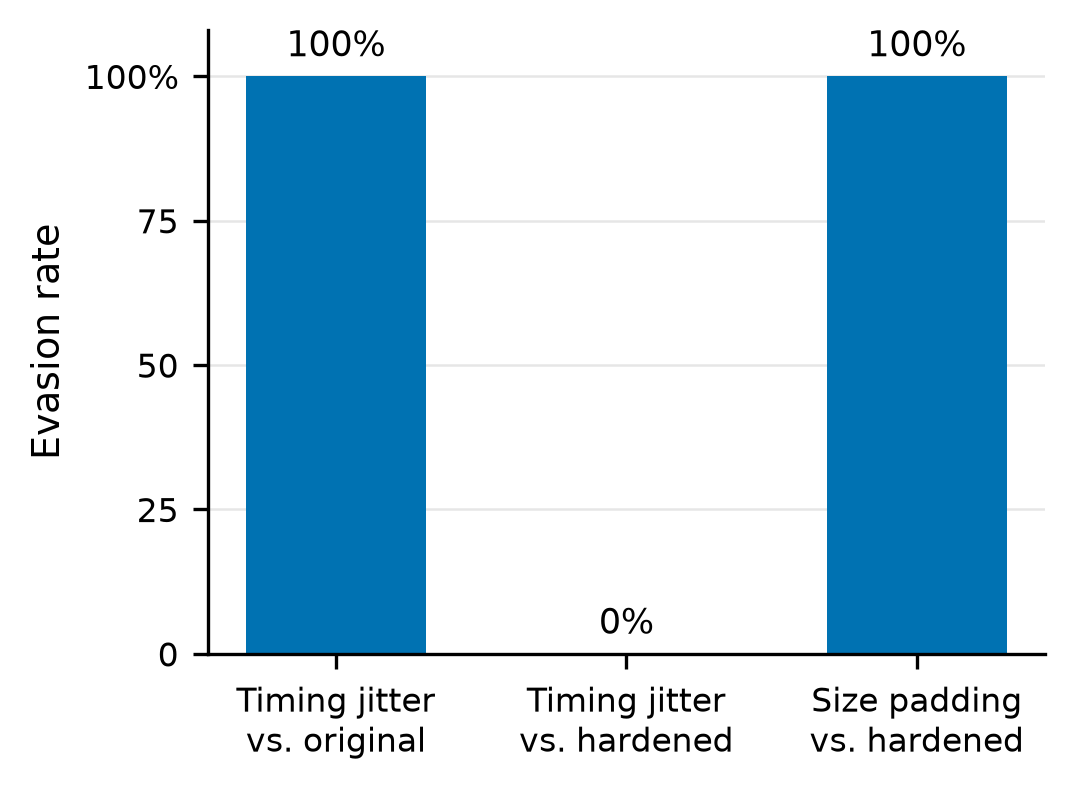
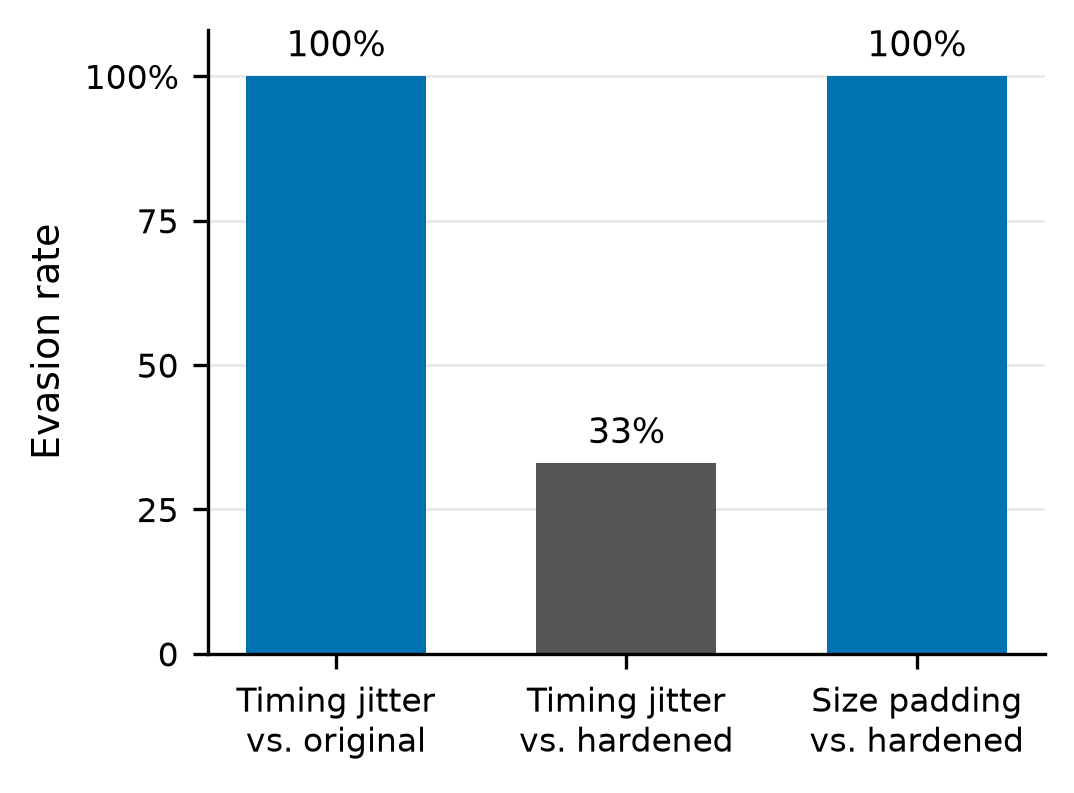
paper: refresh fig2 arms race on the new hardening numbers
Update the arms-race bars to the schema-v2 results: timing jitter vs original
100%, vs hardened 33% (was 0% -- hardening now only partially defends on the
timing axis), size padding vs hardened 100%. Copy the PDF into tex/figures/.

Changed region(s): [[0.4916, 0.5145, 0.676, 0.8474]]

diff --git a/paper/make_figures.py b/paper/make_figures.py
@@ -109,7 +109,7 @@ def fig_arms_race():
     """Fig 2: evasion rate across the defense arms race (vs the classical MLP)."""
     labels = ["Timing jitter\nvs. original", "Timing jitter\nvs. hardened",
               "Size padding\nvs. hardened"]
-    rates = [100, 0, 100]
+    rates = [100, 33, 100]
     colors = [BLUE, GREY, BLUE]
 
     fig, ax = plt.subplots(figsize=(3.6, 2.7))
